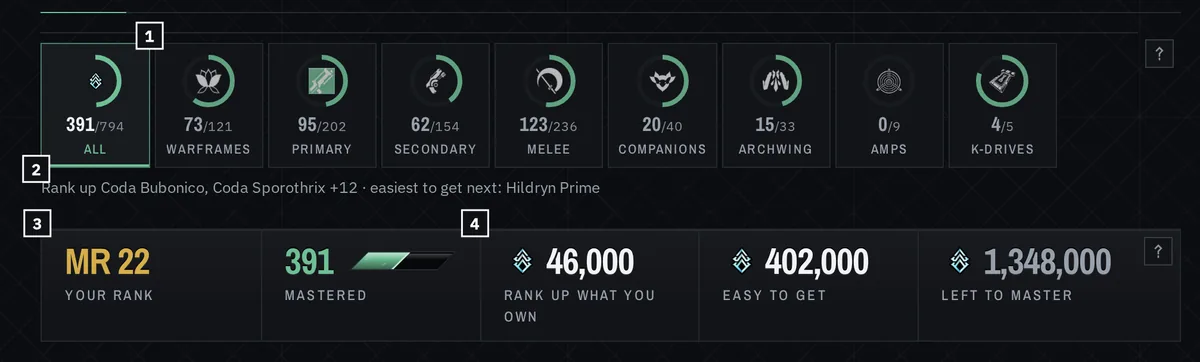
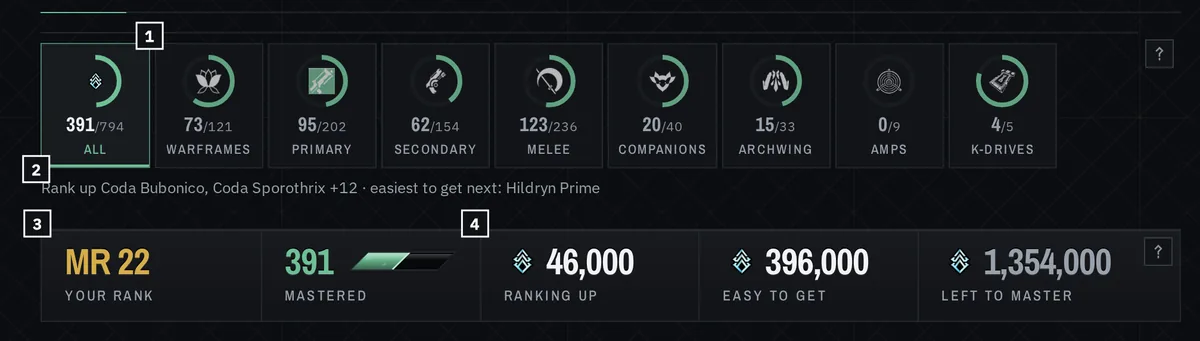
Mastery: a band label that fits on one line
"Rank up what you own" wrapped where the other labels in its row did not.

diff --git a/src/lib/tabs/Mastery.svelte b/src/lib/tabs/Mastery.svelte
@@ -249,7 +249,7 @@
       {/if}
       <!-- The Codex as a whole: what you've mastered of everything that gives mastery, as the All ring counts it. -->
       <Stat label="Mastered" note={`of ${codex.total.toLocaleString("en")} things that give mastery`}><span class="codex"><Vessel key="mastery.codex" value={codex.mastered} max={codex.total} label="Mastered of everything that gives mastery">{#snippet figure(n)}<span class="cfig">{Math.round(n).toLocaleString("en")}</span>{/snippet}</Vessel></span></Stat>
-      <Stat label="Rank up what you own" note={`${things(levelRows.length)} in your arsenal, not yet at max rank`}><GameIcon name="mastery" size={30} /><Count value={pts(levelRows)} /></Stat>
+      <Stat label="Ranking up" note={`${things(levelRows.length)} in your arsenal, not yet at max rank`}><GameIcon name="mastery" size={30} /><Count value={pts(levelRows)} /></Stat>
       <Stat label="Easy to get" note={`${things(easyRows.length)}: buy and build, or an easy boss`}><GameIcon name="mastery" size={30} /><Count value={pts(easyRows)} /></Stat>
       <Stat label="Left to master" tone="dim" note={`${things(open.length)} you can still get`}><GameIcon name="mastery" size={30} /><Count value={pts(open)} /></Stat>
     {/snippet}
